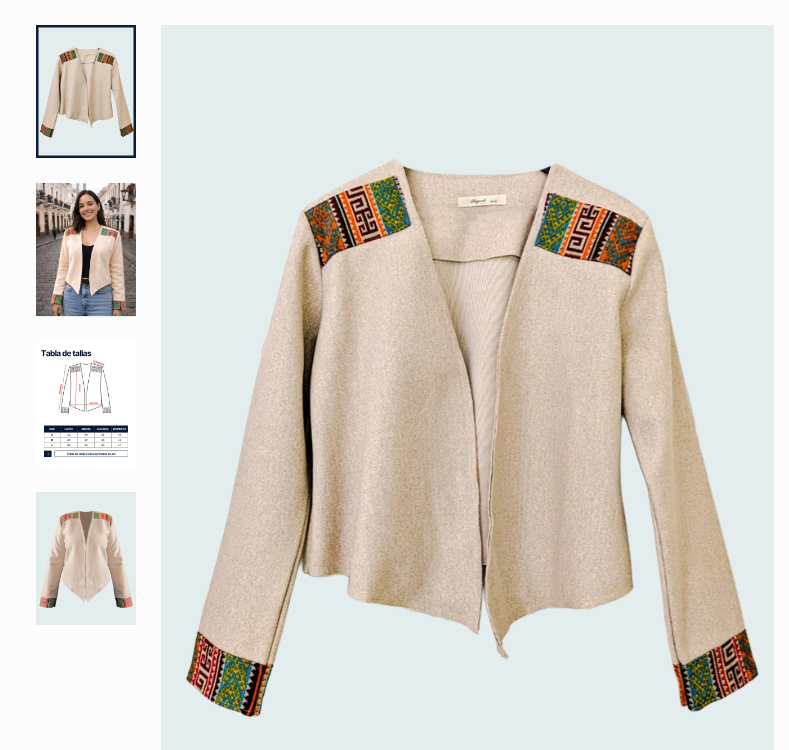
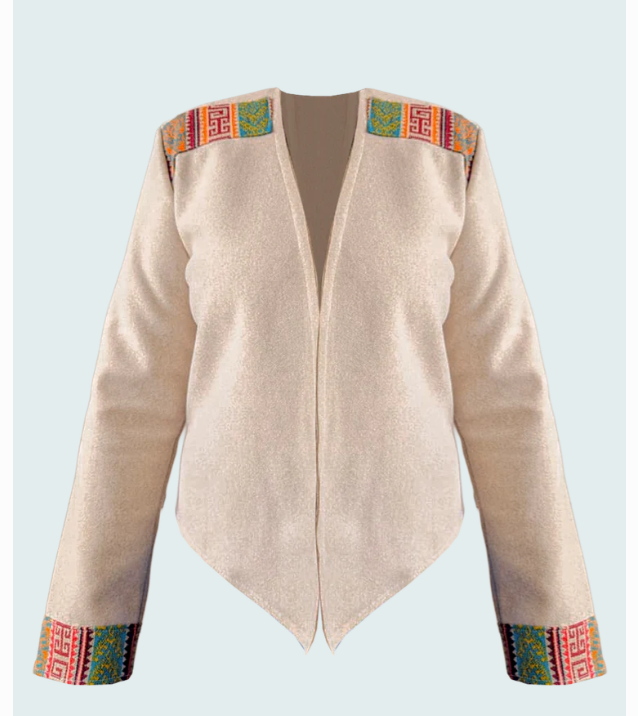
Add real imagery and sizing for garment one

diff --git a/app/globals.css b/app/globals.css
@@ -197,6 +197,12 @@ img { display: block; max-width: 100%; }
 .product-detail-image { position: relative; min-height: 720px; overflow: hidden; background: #dfe8e9; }
 .product-detail-image img { width: 100%; height: 100%; object-fit: cover; }
 .product-detail-image > span { position: absolute; left: 20px; bottom: 20px; padding: 9px 12px; background: var(--white); font-size: 9px; letter-spacing: .16em; }
+.product-gallery { display: grid; grid-template-columns: 1fr 1fr; gap: 2px; align-content: start; background: var(--white); }
+.product-gallery figure { position: relative; min-height: 360px; margin: 0; overflow: hidden; background: #e4edef; }
+.product-gallery .product-gallery-primary { grid-column: 1 / -1; min-height: 720px; }
+.product-gallery figure img { width: 100%; height: 100%; object-fit: contain; }
+.product-gallery figure:nth-child(2) img { object-fit: cover; object-position: center 20%; }
+.product-gallery figcaption { position: absolute; left: 14px; bottom: 14px; padding: 8px 10px; background: rgba(255,255,255,.92); font-size: 9px; letter-spacing: .12em; text-transform: uppercase; }
 .product-detail-copy { display: flex; flex-direction: column; justify-content: center; padding: clamp(50px, 7vw, 105px); }
 .product-detail-copy h1 { font-size: clamp(56px, 5.5vw, 88px); line-height: .93; }
 .product-lead { margin: 32px 0; font-family: var(--serif); font-size: 19px; line-height: 1.55; }
@@ -204,6 +210,11 @@ img { display: block; max-width: 100%; }
 .product-detail-copy dl > div { display: grid; grid-template-columns: 130px 1fr; padding: 14px 0; border-bottom: 1px solid var(--line); font-size: 12px; }
 .product-detail-copy dt { color: #6b7280; text-transform: uppercase; letter-spacing: .1em; }
 .product-detail-copy dd { margin: 0; }
+.size-measurements { margin: 0 0 26px; border: 1px solid var(--line); font-size: 10px; }
+.size-measurements > div { display: grid; grid-template-columns: repeat(5, 1fr); border-bottom: 1px solid var(--line); }
+.size-measurements > div:first-child { background: #071d38; color: white; text-transform: uppercase; }
+.size-measurements span, .size-measurements b { padding: 8px 4px; text-align: center; border-right: 1px solid var(--line); }
+.size-measurements small { display: block; padding: 8px; text-align: center; color: #6b7280; }
 .product-sizes { margin-bottom: 30px; }
 .product-sizes > span { display: block; margin-bottom: 12px; font-size: 10px; font-weight: 700; letter-spacing: .14em; text-transform: uppercase; }
 .product-sizes > div { display: flex; gap: 8px; }
@@ -346,6 +357,8 @@ img { display: block; max-width: 100%; }
   .catalog-body { padding: 0 12px 80px; }
   .product-detail { grid-template-columns: 1fr; }
   .product-detail-image { min-height: 560px; }
+  .product-gallery .product-gallery-primary { min-height: 520px; }
+  .product-gallery figure { min-height: 280px; }
   .product-detail-copy { padding: 52px 24px 72px; }
   .tryon-header { height: 66px; padding: 0 16px; }
   .tryon-header > div { display: none; }

diff --git a/app/producto/[slug]/page.tsx b/app/producto/[slug]/page.tsx
@@ -10,13 +10,26 @@ export default async function ProductPage({ params }: { params: Promise<{ slug: 
   const garment = await getGarmentBySlug(slug);
   if (!garment) notFound();
 
+  const isKilla = garment.slug === "chaqueta-killa-marfil";
+  const gallery = isKilla
+    ? [
+        { src: garment.imageUrl, alt: `${garment.name}, vista frontal`, label: "Vista frontal" },
+        { src: "/images/products/chaqueta-killa-modelo.png", alt: `${garment.name} puesta`, label: "Así luce puesta" },
+        { src: "/images/products/chaqueta-killa-tallas.png", alt: `Tabla de tallas de ${garment.name}`, label: "Medidas de la prenda" },
+      ]
+    : [{ src: garment.imageUrl, alt: garment.name, label: "Vista de referencia" }];
+
   return (
     <main className="inner-page product-page">
       <SiteHeader />
       <section className="product-detail">
-        <div className="product-detail-image">
-          <img src={garment.imageUrl} alt={garment.name} className={`focus-${garment.imageFocus}`} />
-          <span>VISTA DE REFERENCIA</span>
+        <div className={`product-detail-image${isKilla ? " product-gallery" : ""}`}>
+          {gallery.map((image, index) => (
+            <figure className={index === 0 ? "product-gallery-primary" : ""} key={image.src}>
+              <img src={image.src} alt={image.alt} className={`focus-${garment.imageFocus}`} />
+              <figcaption>{image.label}</figcaption>
+            </figure>
+          ))}
         </div>
         <div className="product-detail-copy">
           <p className="eyebrow">{garment.category}</p>
@@ -24,6 +37,15 @@ export default async function ProductPage({ params }: { params: Promise<{ slug: 
           <p className="product-lead">{garment.description}</p>
           <dl><div><dt>Color</dt><dd>{garment.color}</dd></div><div><dt>Material</dt><dd>{garment.material}</dd></div><div><dt>Disponibilidad</dt><dd>Pieza de exhibición</dd></div></dl>
           <div className="product-sizes"><span>Tallas configuradas</span><div>{garment.sizes.map((size) => <span key={size}>{size}</span>)}</div></div>
+          {isKilla && (
+            <div className="size-measurements" aria-label="Medidas de la prenda en centímetros">
+              <div><span>Talla</span><span>Largo</span><span>Ancho</span><span>Mangas</span><span>Hombros</span></div>
+              <div><b>S</b><span>58</span><span>50</span><span>55</span><span>43</span></div>
+              <div><b>M</b><span>60</span><span>52</span><span>58</span><span>45</span></div>
+              <div><b>L</b><span>64</span><span>54</span><span>63</span><span>47</span></div>
+              <small>Todas las medidas están expresadas en cm.</small>
+            </div>
+          )}
           <Link className="button button--dark button--full" href={`/probador?prenda=${garment.slug}`}>Probar con mi cámara <span>↗</span></Link>
           <p className="privacy-note">La cámara se procesa de forma temporal en tu navegador.</p>
         </div>

diff --git a/src/data/garments.ts b/src/data/garments.ts
@@ -7,6 +7,12 @@ export const STANDARD_SIZE_CHART: SizeChartEntry[] = [
   { size: "XL", chestMin: 106, chestMax: 116, shoulderWidth: 44, garmentLength: 65 },
 ];
 
+export const KILLA_SIZE_CHART: SizeChartEntry[] = [
+  { size: "S", chestMin: 84, chestMax: 90, shoulderWidth: 43, garmentLength: 58 },
+  { size: "M", chestMin: 90, chestMax: 96, shoulderWidth: 45, garmentLength: 60 },
+  { size: "L", chestMin: 96, chestMax: 104, shoulderWidth: 47, garmentLength: 64 },
+];
+
 export const DEFAULT_GARMENTS: Garment[] = [
   {
     id: 1,
@@ -19,12 +25,12 @@ export const DEFAULT_GARMENTS: Garment[] = [
     color: "Marfil natural",
     imageUrl: "/images/products/chaqueta-killa-reference.png",
     imageKey: null,
-    imageFocus: "right",
+    imageFocus: "center",
     overlayColor: "#d8cbb5",
     overlayAccent: "#a54428",
     featured: true,
-    sizes: ["S", "M", "L", "XL"],
-    sizeChart: STANDARD_SIZE_CHART,
+    sizes: ["S", "M", "L"],
+    sizeChart: KILLA_SIZE_CHART,
   },
   {
     id: 2,
